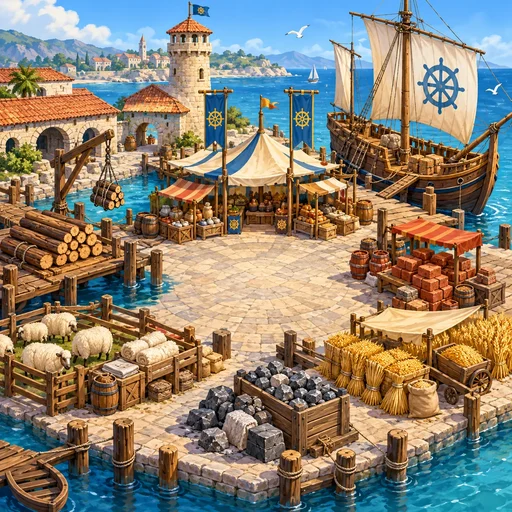
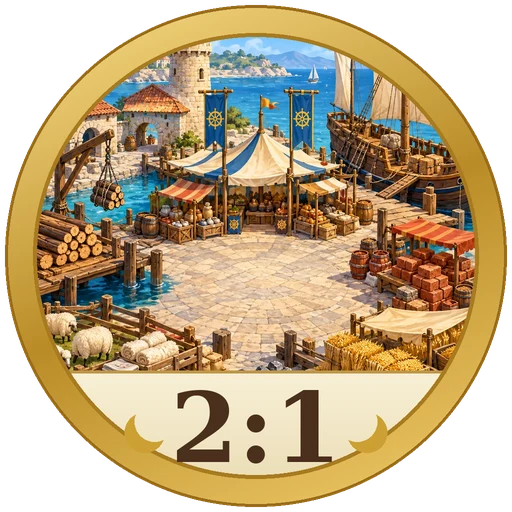
Welthafen-Medaille im Stil der anderen Hafenkarten (Pergamentfläche mit dunkler Serif-Zahl 2:1 und goldenen Sicheln)
Claude-Session: https://claude.ai/code/session_011VBPhhfqbmJRD4SaiEULj2

diff --git a/public/js/ui/boardView.js b/public/js/ui/boardView.js
@@ -54,7 +54,6 @@ export class BoardView {
           </linearGradient>`).join('')}
         ${roadDefs()}
         <radialGradient id="tokenGrad" cx="40%" cy="32%" r="75%"><stop offset="0" stop-color="#fffaea"/><stop offset="1" stop-color="#e6d6aa"/></radialGradient>
-        <clipPath id="worldClip"><circle r="0.47"/></clipPath>
         <radialGradient id="worldGrad" cx="40%" cy="32%" r="75%"><stop offset="0" stop-color="#fff2c4"/><stop offset="1" stop-color="#d9a73a"/></radialGradient>
         <radialGradient id="portGrad" cx="40%" cy="32%" r="75%"><stop offset="0" stop-color="#fff6dc"/><stop offset="1" stop-color="#ead9a6"/></radialGradient>
         <radialGradient id="fogVeil" cx="50%" cy="45%" r="70%"><stop offset="0" stop-color="#fff" stop-opacity=".55"/><stop offset="1" stop-color="#fff" stop-opacity="0"/></radialGradient>
@@ -463,10 +462,8 @@ export class BoardView {
     out.push('<g class="portmarks">');
     for (const p of board.ports) {
       if (p.type === 'all') { // Welthafen: goldene Marke, alle Rohstoffe 2:1
-        out.push(`<g transform="translate(${p.x},${p.y})" class="port world"><circle r="0.54" cy="0.05" class="port-shadow"/><circle r="0.54" class="port-all-bg"/>`
-          + '<image href="assets/art-v2/harbors/world-harbor.webp" x="-0.47" y="-0.47" width="0.94" height="0.94" clip-path="url(#worldClip)" preserveAspectRatio="xMidYMid slice"/>'
-          + '<circle r="0.47" fill="none" stroke="#b98a26" stroke-width="0.025"/>'
-          + '<rect x="-0.37" y="0.2" width="0.74" height="0.25" rx="0.125" class="port-all-ribbon"/><text y="0.335" class="port-all-sub">2:1 ALLE</text></g>');
+        out.push(`<g transform="translate(${p.x},${p.y})" class="port world"><circle r="0.45" cy="0.05" class="port-shadow"/>`
+          + '<image href="assets/art-v2/harbors/world-harbor.webp" x="-0.5" y="-0.5" width="1" height="1" class="port-img"/></g>'); // gleicher Aufbau wie die anderen Hafenkarten, nur etwas größer
         continue;
       }
       const hb = art.ok ? harborImg(p.type) : null;
